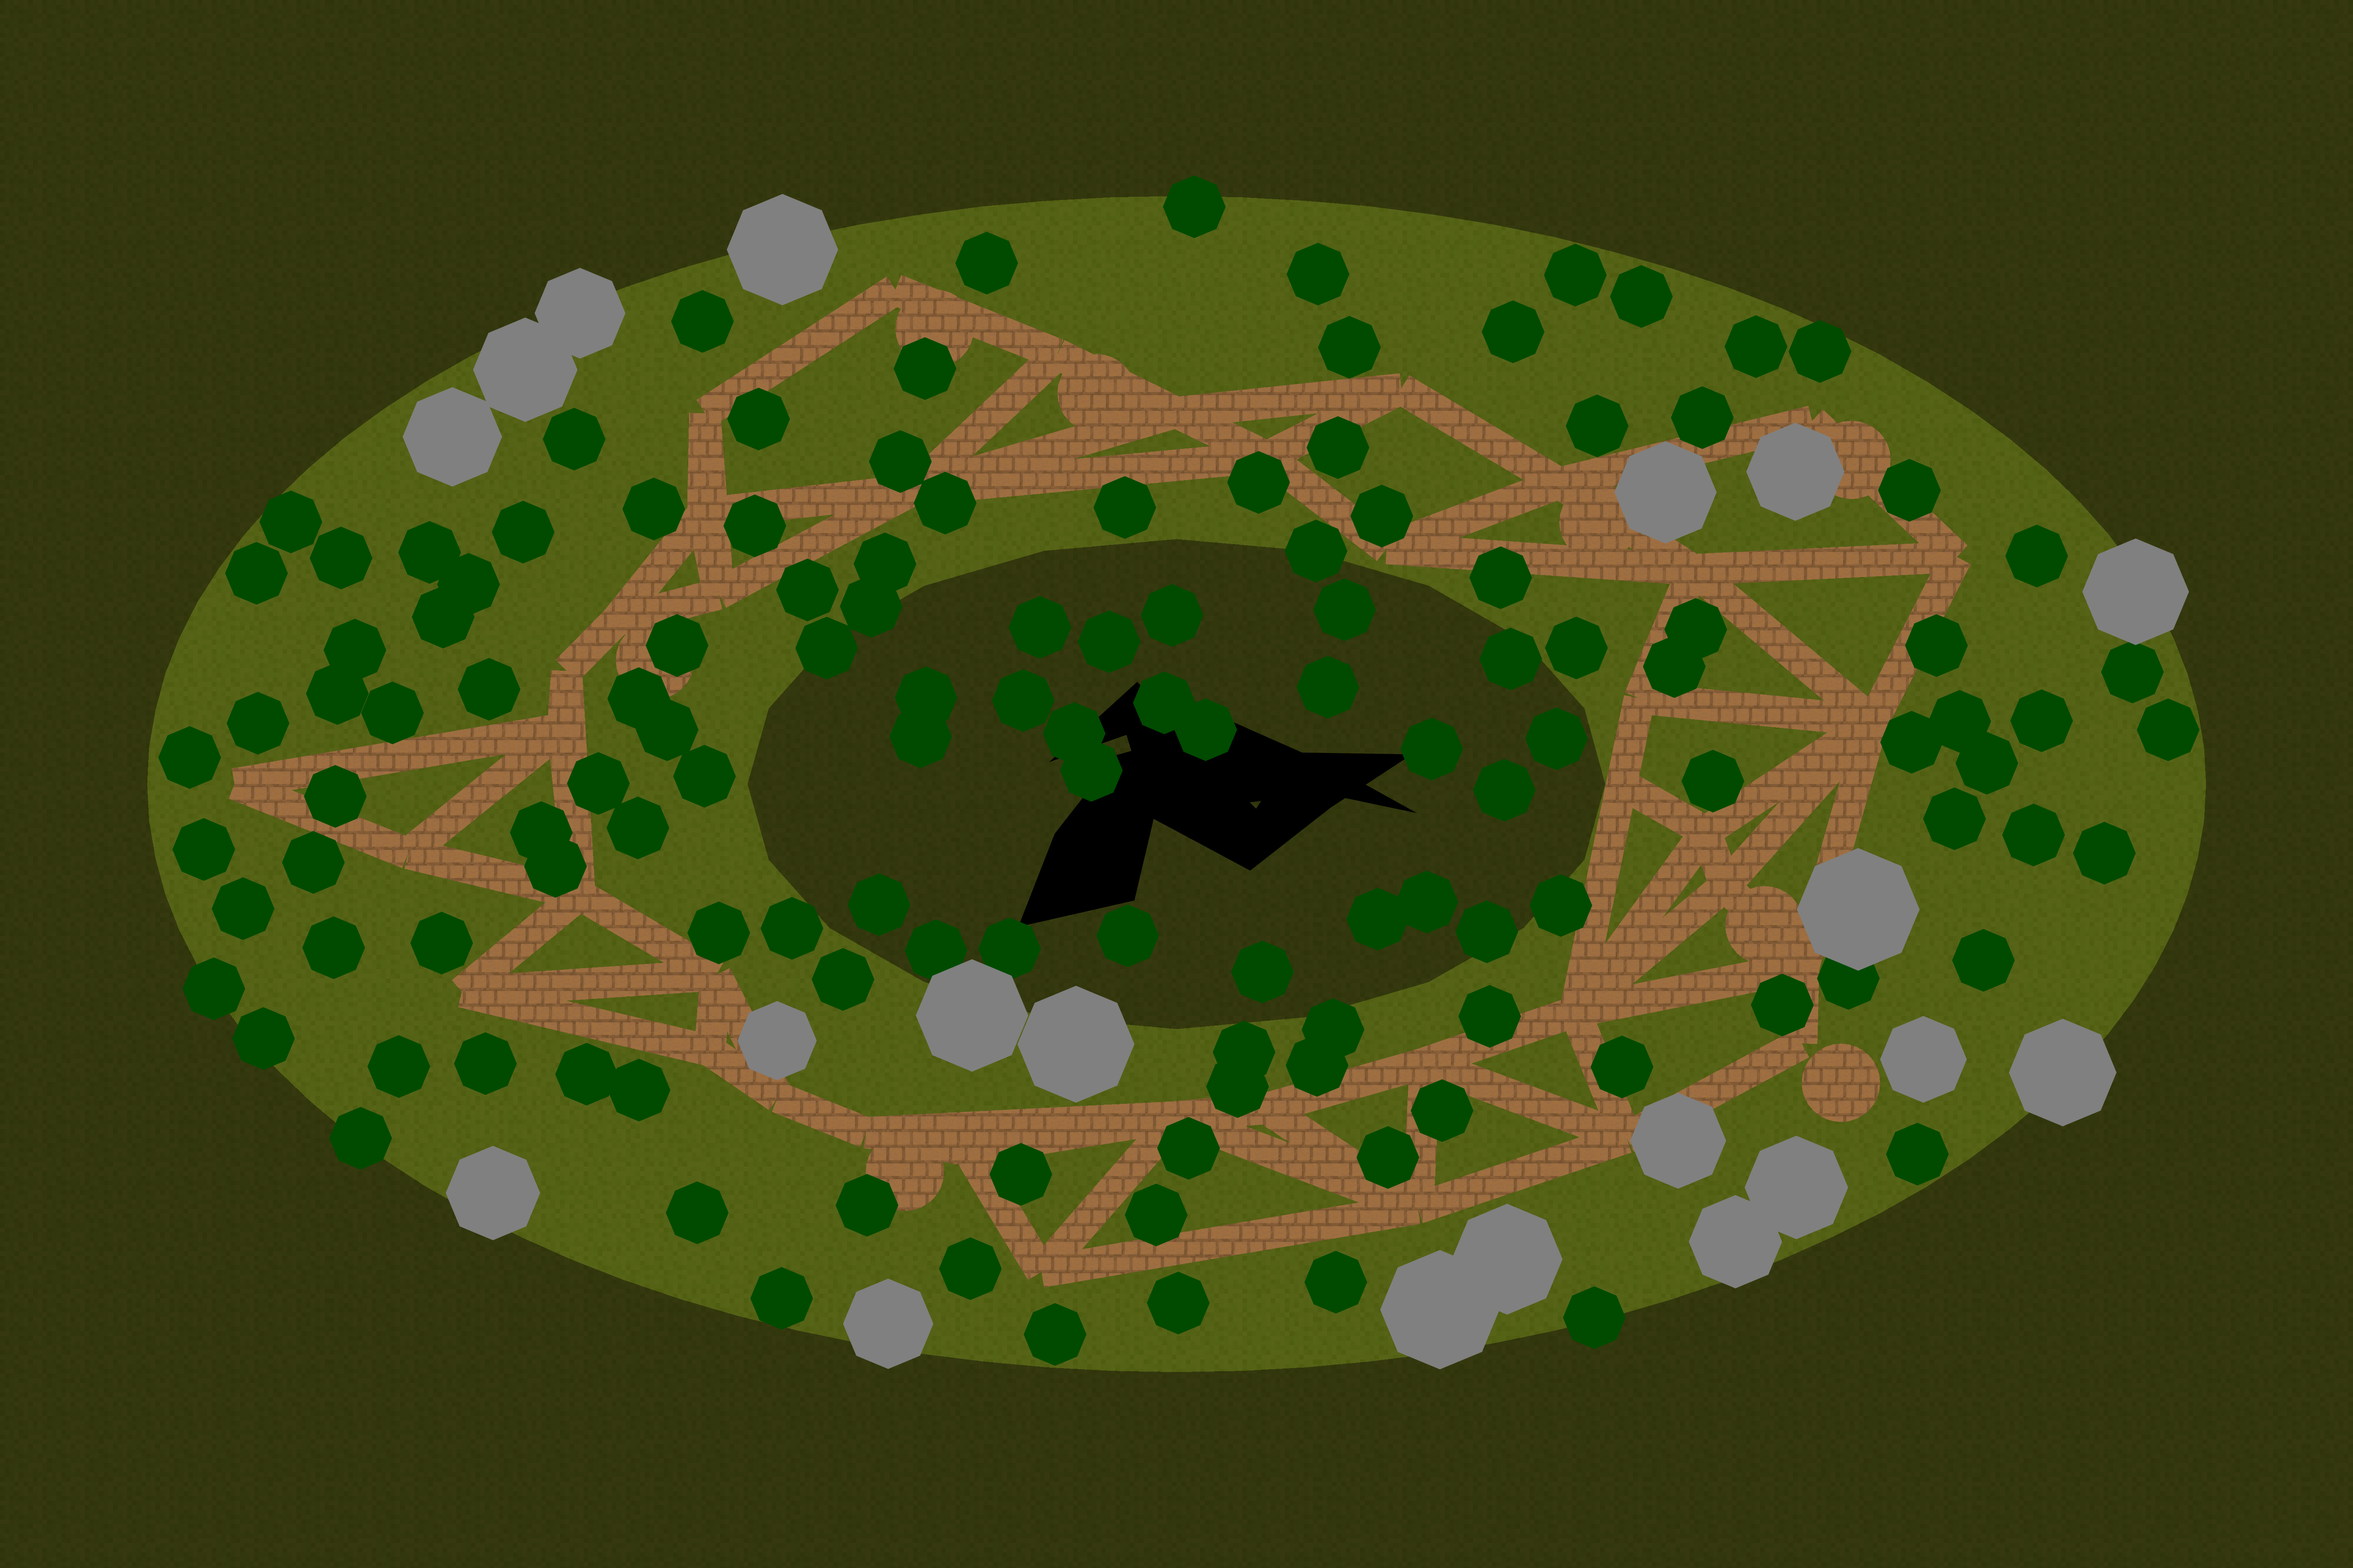
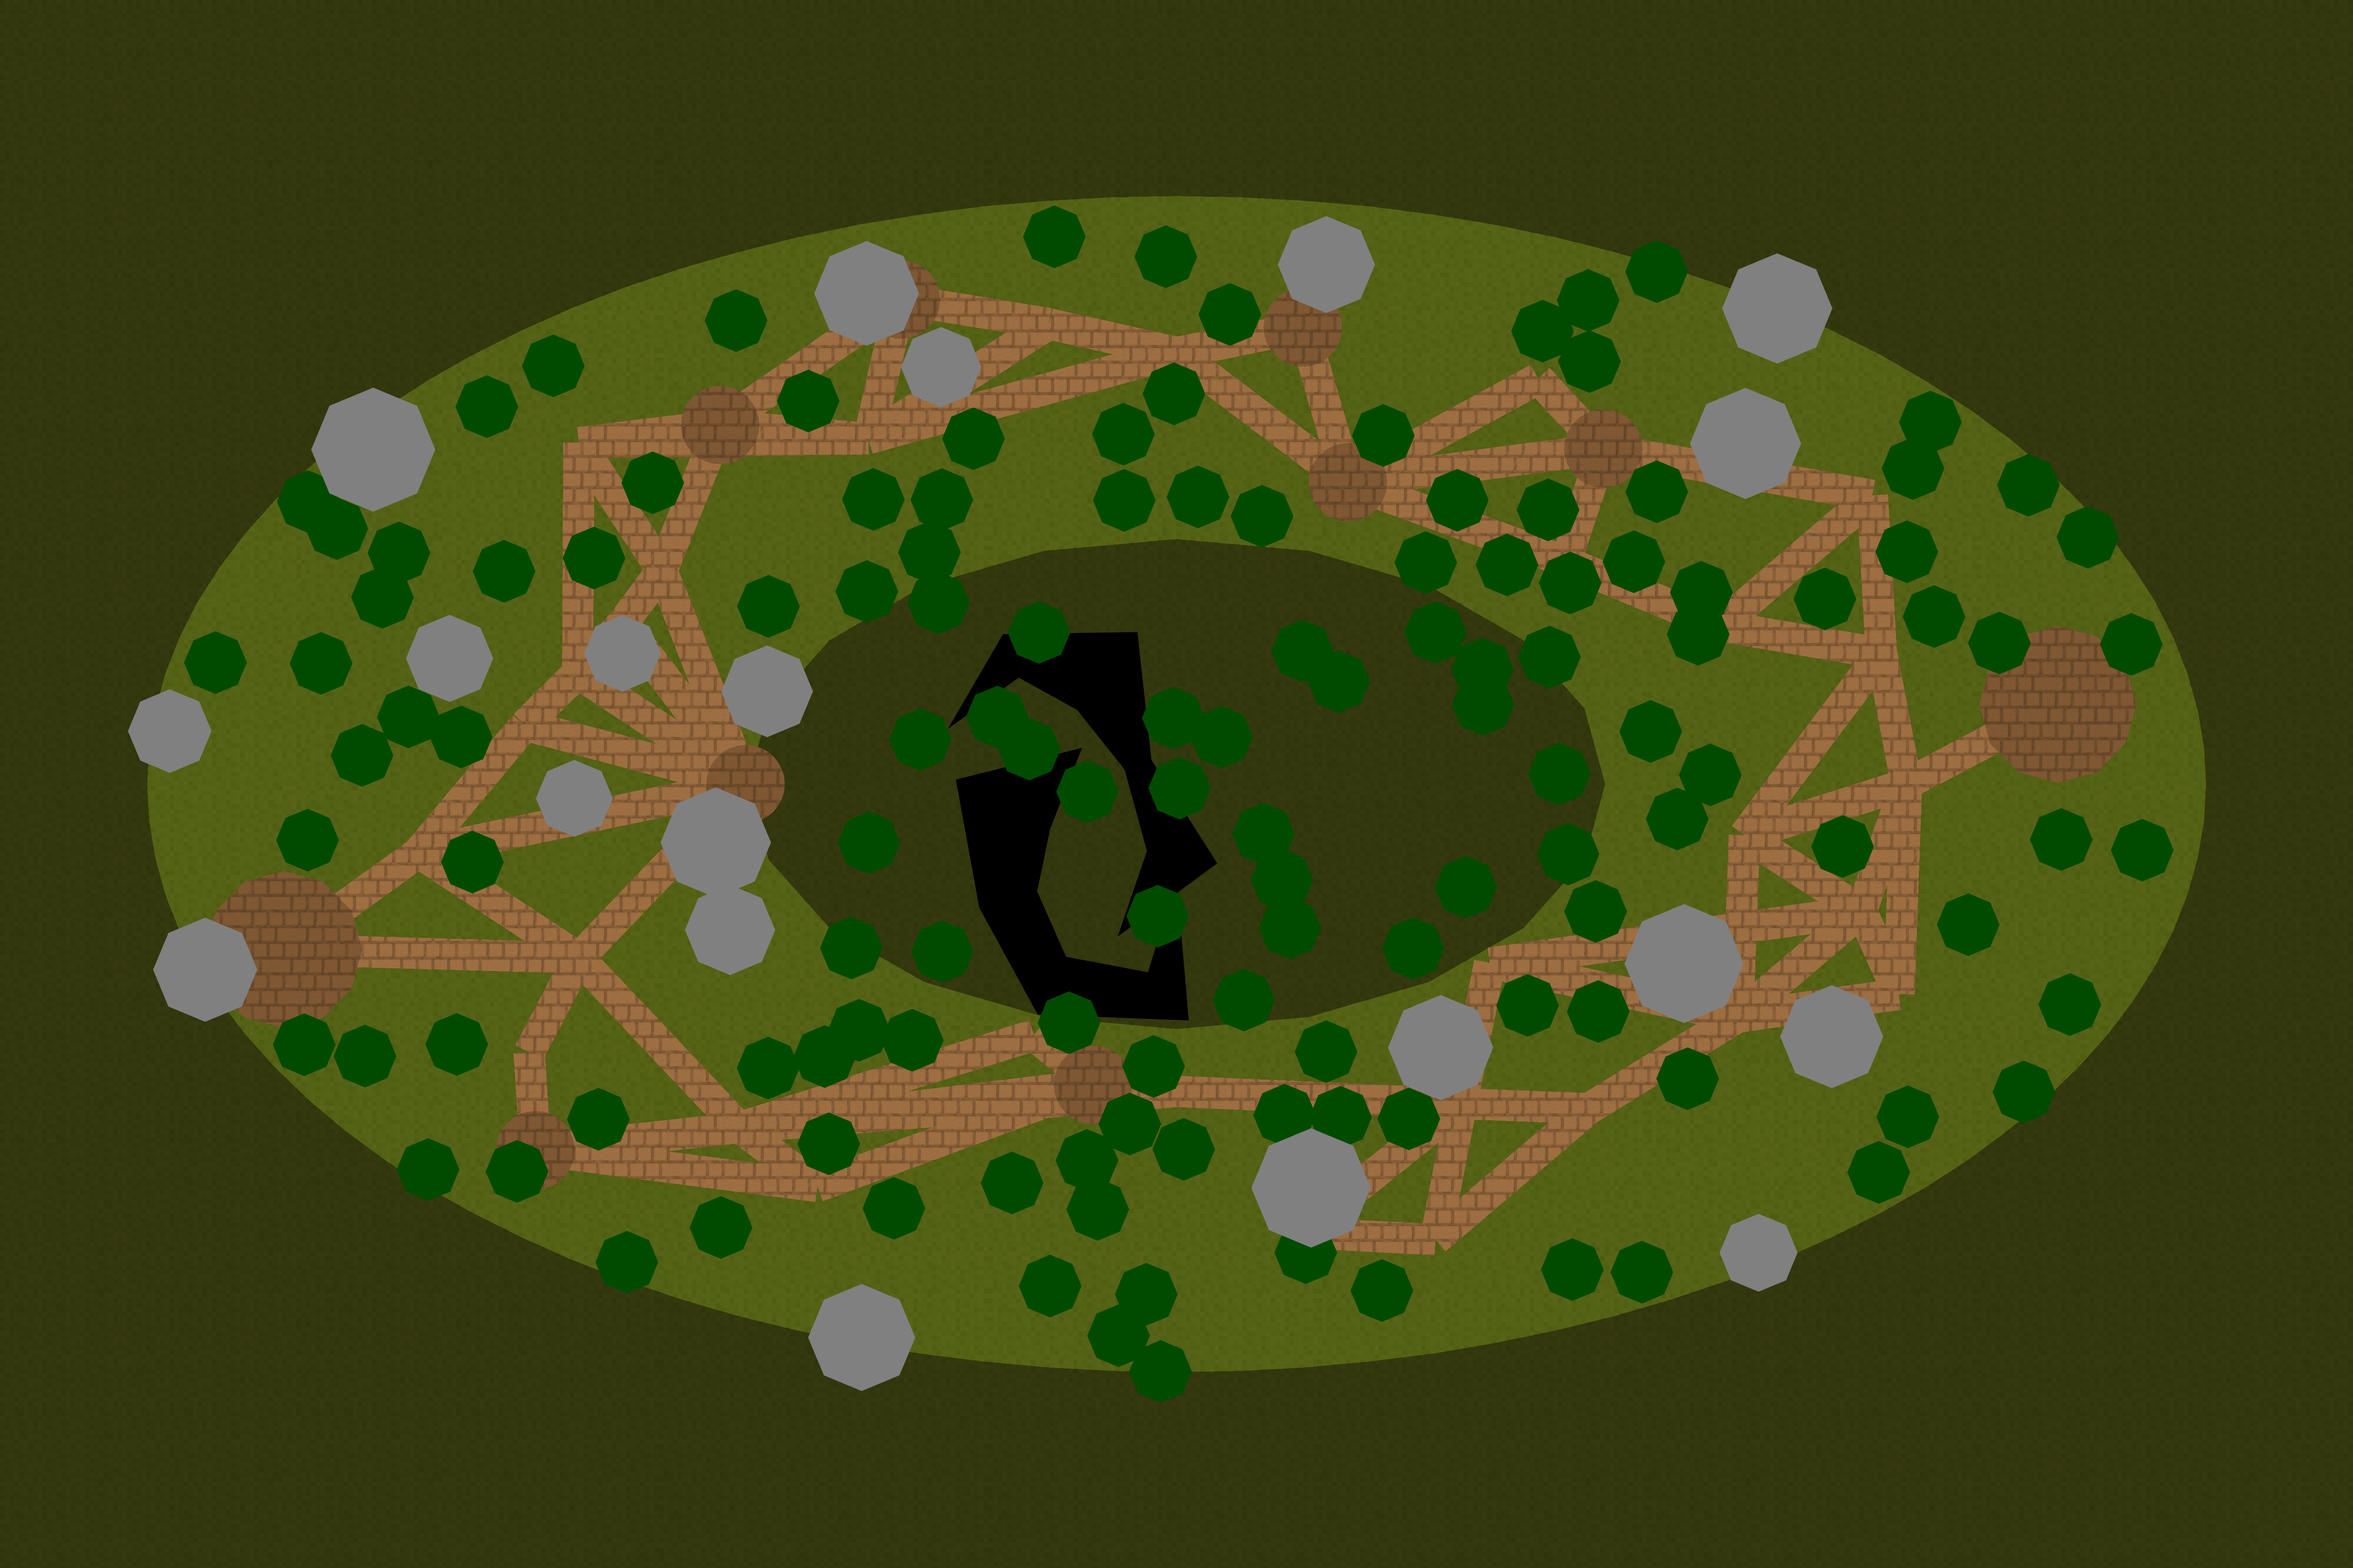
Dark nodes added

diff --git a/src/server/MainMapGenModule.java b/src/server/MainMapGenModule.java
@@ -39,6 +39,7 @@ class MainMapGenModule extends JFrame {
    private File newImageFile = new File("Map.png");
    private BufferedImage mapImage;
    private BufferedImage pathImage;
+   private BufferedImage darkPathImage;
    private BufferedImage groundImage;
    private BufferedImage swampImage;
    private Socket socket;
@@ -53,6 +54,7 @@ class MainMapGenModule extends JFrame {
       //Get images from files
       try {
          pathImage = ImageIO.read(new File(System.getProperty("user.dir") + "/res/Full_Path.png"));
+         darkPathImage = ImageIO.read(new File(System.getProperty("user.dir") + "/res/Full_PathDark.png"));
          groundImage = ImageIO.read(new File(System.getProperty("user.dir") + "/res/Full_Ground.png"));
          swampImage = ImageIO.read(new File(System.getProperty("user.dir") + "/res/Full_Swamp.png"));
       } catch (IOException e) {
@@ -171,14 +173,14 @@ class MainMapGenModule extends JFrame {
                /*if (gen.regionLayer.regions.get(idx).regionType.equals("crevice")) {
                   g.setColor(Color.BLACK);
                } else if (gen.regionLayer.regions.get(idx).regionType.equals("swamp")) {
-                  //g.setColor(new Color(0, 50, 0));
-                  g.setColor(new Color(0, 50, 0));
-               } else if (gen.regionLayer.regions.get(idx).regionType.equals("team_one_clearing") || gen.regionLayer.regions.get(idx).regionType.equals("team_two_clearing")) {
-                  g.setColor(new Color(150, 97, 37));
-               } else {
-                  //
-               }*/
-               if (gen.regionLayer.regions.get(idx).regionType.equals("road")) {
+                   g.setColor(new Color(0, 50, 0));
+               } else */
+               if (gen.regionLayer.regions.get(idx).regionType.equals("team_one_clearing") || gen.regionLayer.regions.get(idx).regionType.equals("team_two_clearing")) {
+                   Polygon temp = (Polygon)(g.getClip());
+                   ((Graphics2D) g).clip(gen.regionLayer.regions.get(idx));
+                   g.drawImage(darkPathImage, -15000, -10000, 30000, 20000, null);
+                   g.setClip(temp);
+               } else if (gen.regionLayer.regions.get(idx).regionType.equals("road")) {
                   Polygon temp = (Polygon)(g.getClip());
                   ((Graphics2D) g).clip(gen.regionLayer.regions.get(idx));
                   g.drawImage(pathImage, -15000, -10000, 30000, 20000, null);
@@ -209,11 +211,12 @@ class MainMapGenModule extends JFrame {
                this.fillOvalCustom(gen.nodes.get(i).clearingSize, gen.nodes.get(i).location.x,
                        gen.nodes.get(i).location.y, g);*/
                Polygon temp = (Polygon)(g.getClip());
-               ((Graphics2D) g).clip(new Ellipse2D.Double(gen.nodes.get(i).location.x, gen.nodes.get(i).location.y, (gen.nodes.get(i).clearingSize) * 2, (gen.nodes.get(i).clearingSize) * 2));
-               g.drawImage(pathImage, -15000, -10000, 30000, 20000, null);
+               int clearingSize = gen.nodes.get(i).clearingSize;
+               ((Graphics2D) g).clip(new Ellipse2D.Double(gen.nodes.get(i).location.x - clearingSize, gen.nodes.get(i).location.y - clearingSize, clearingSize * 2, clearingSize * 2));
+               g.drawImage(darkPathImage, -15000, -10000, 30000, 20000, null);
                g.setClip(temp);
-               g.setColor(new Color(150, 97, 37));
-               this.fillOvalCustom(gen.nodes.get(i).clearingSize, gen.nodes.get(i).location.x, gen.nodes.get(i).location.y, g);
+               /*g.setColor(new Color(150, 97, 37));
+               this.fillOvalCustom(gen.nodes.get(i).clearingSize, gen.nodes.get(i).location.x, gen.nodes.get(i).location.y, g);*/
             } else {
                //this.fillOvalCustom(50, gen.nodes.get(i).location.x, gen.nodes.get(i).location.y, g);
             }
